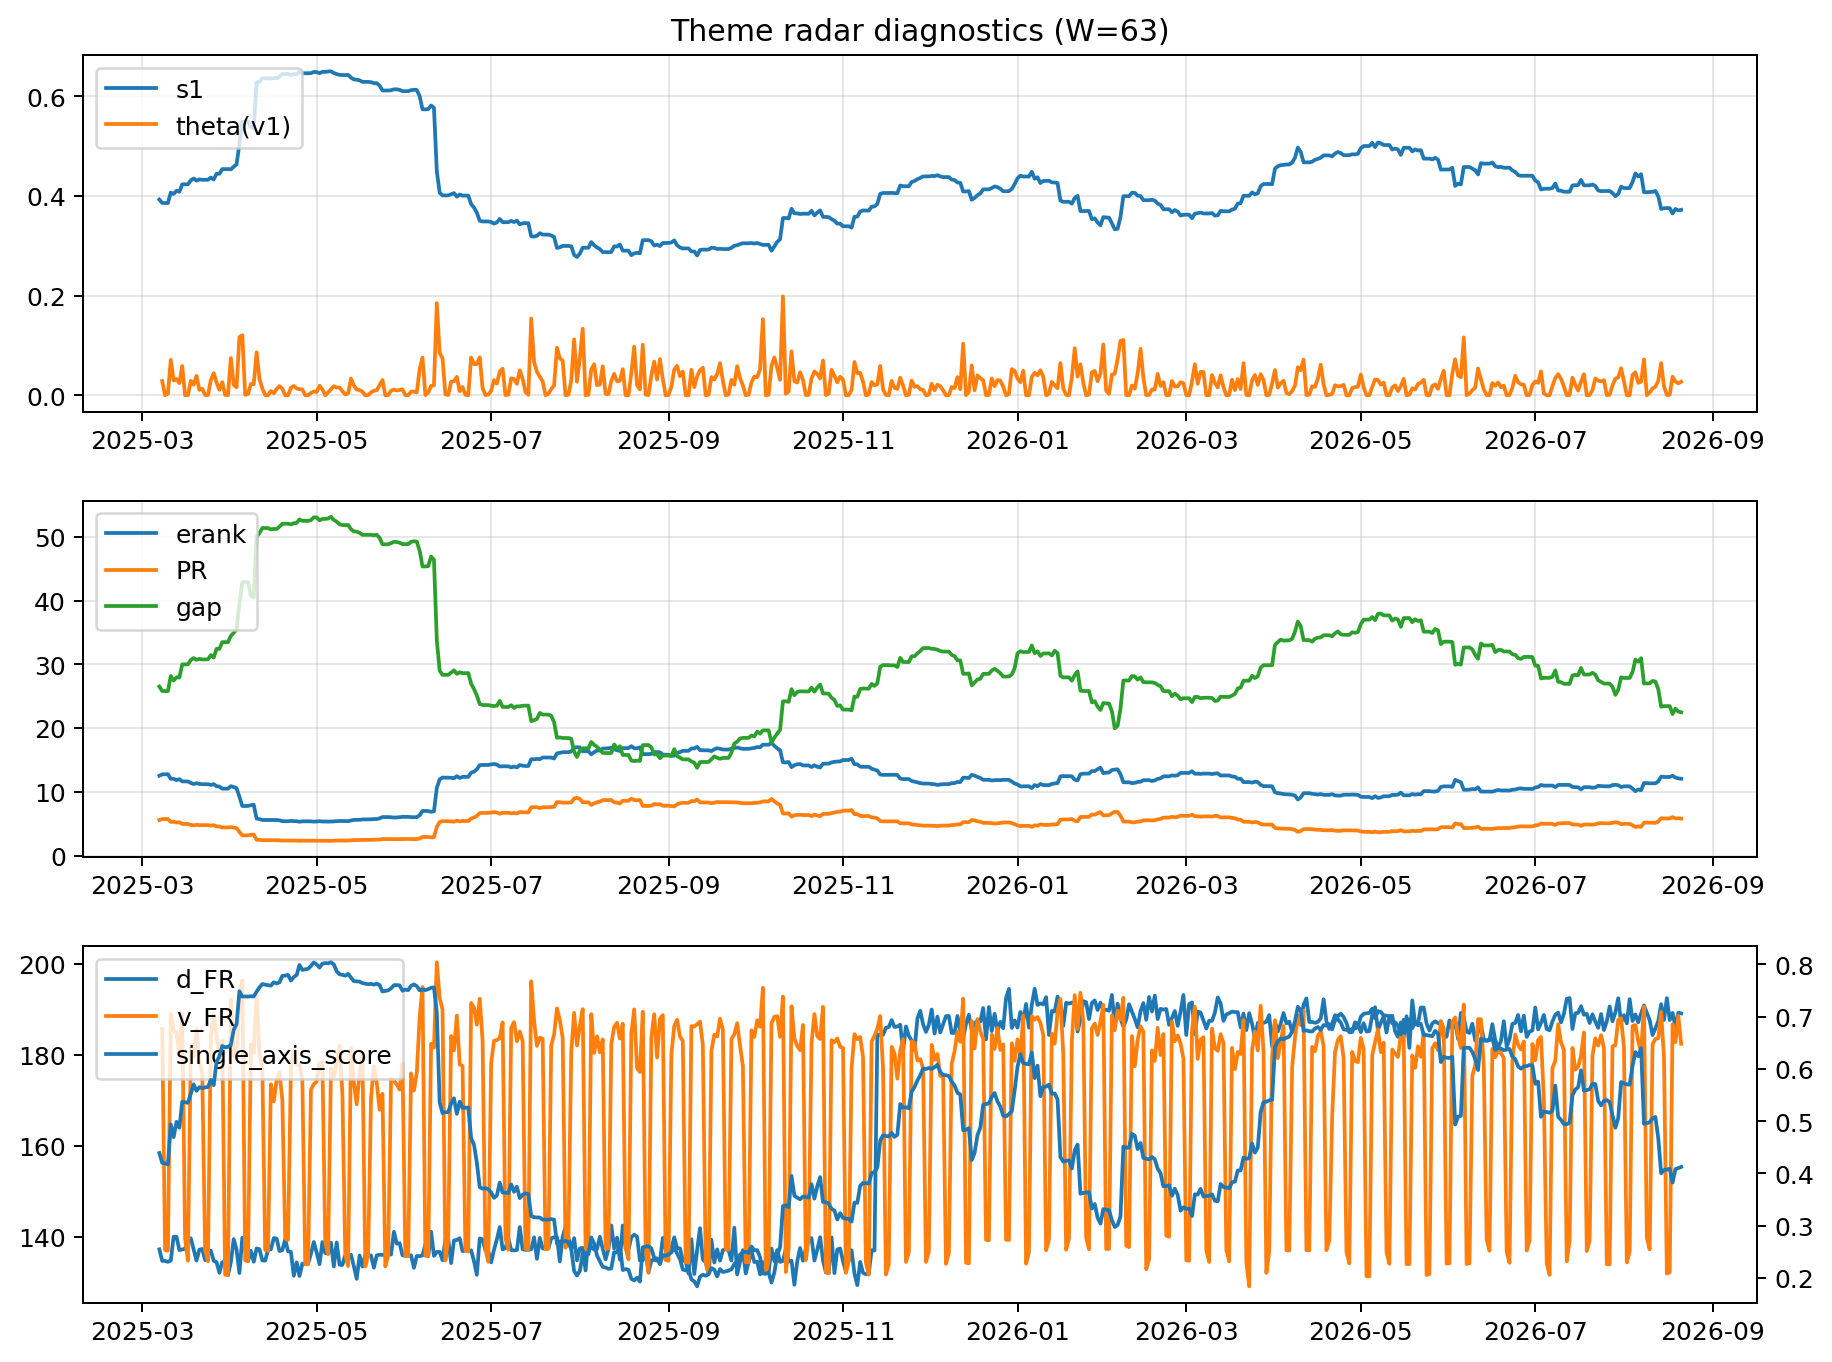
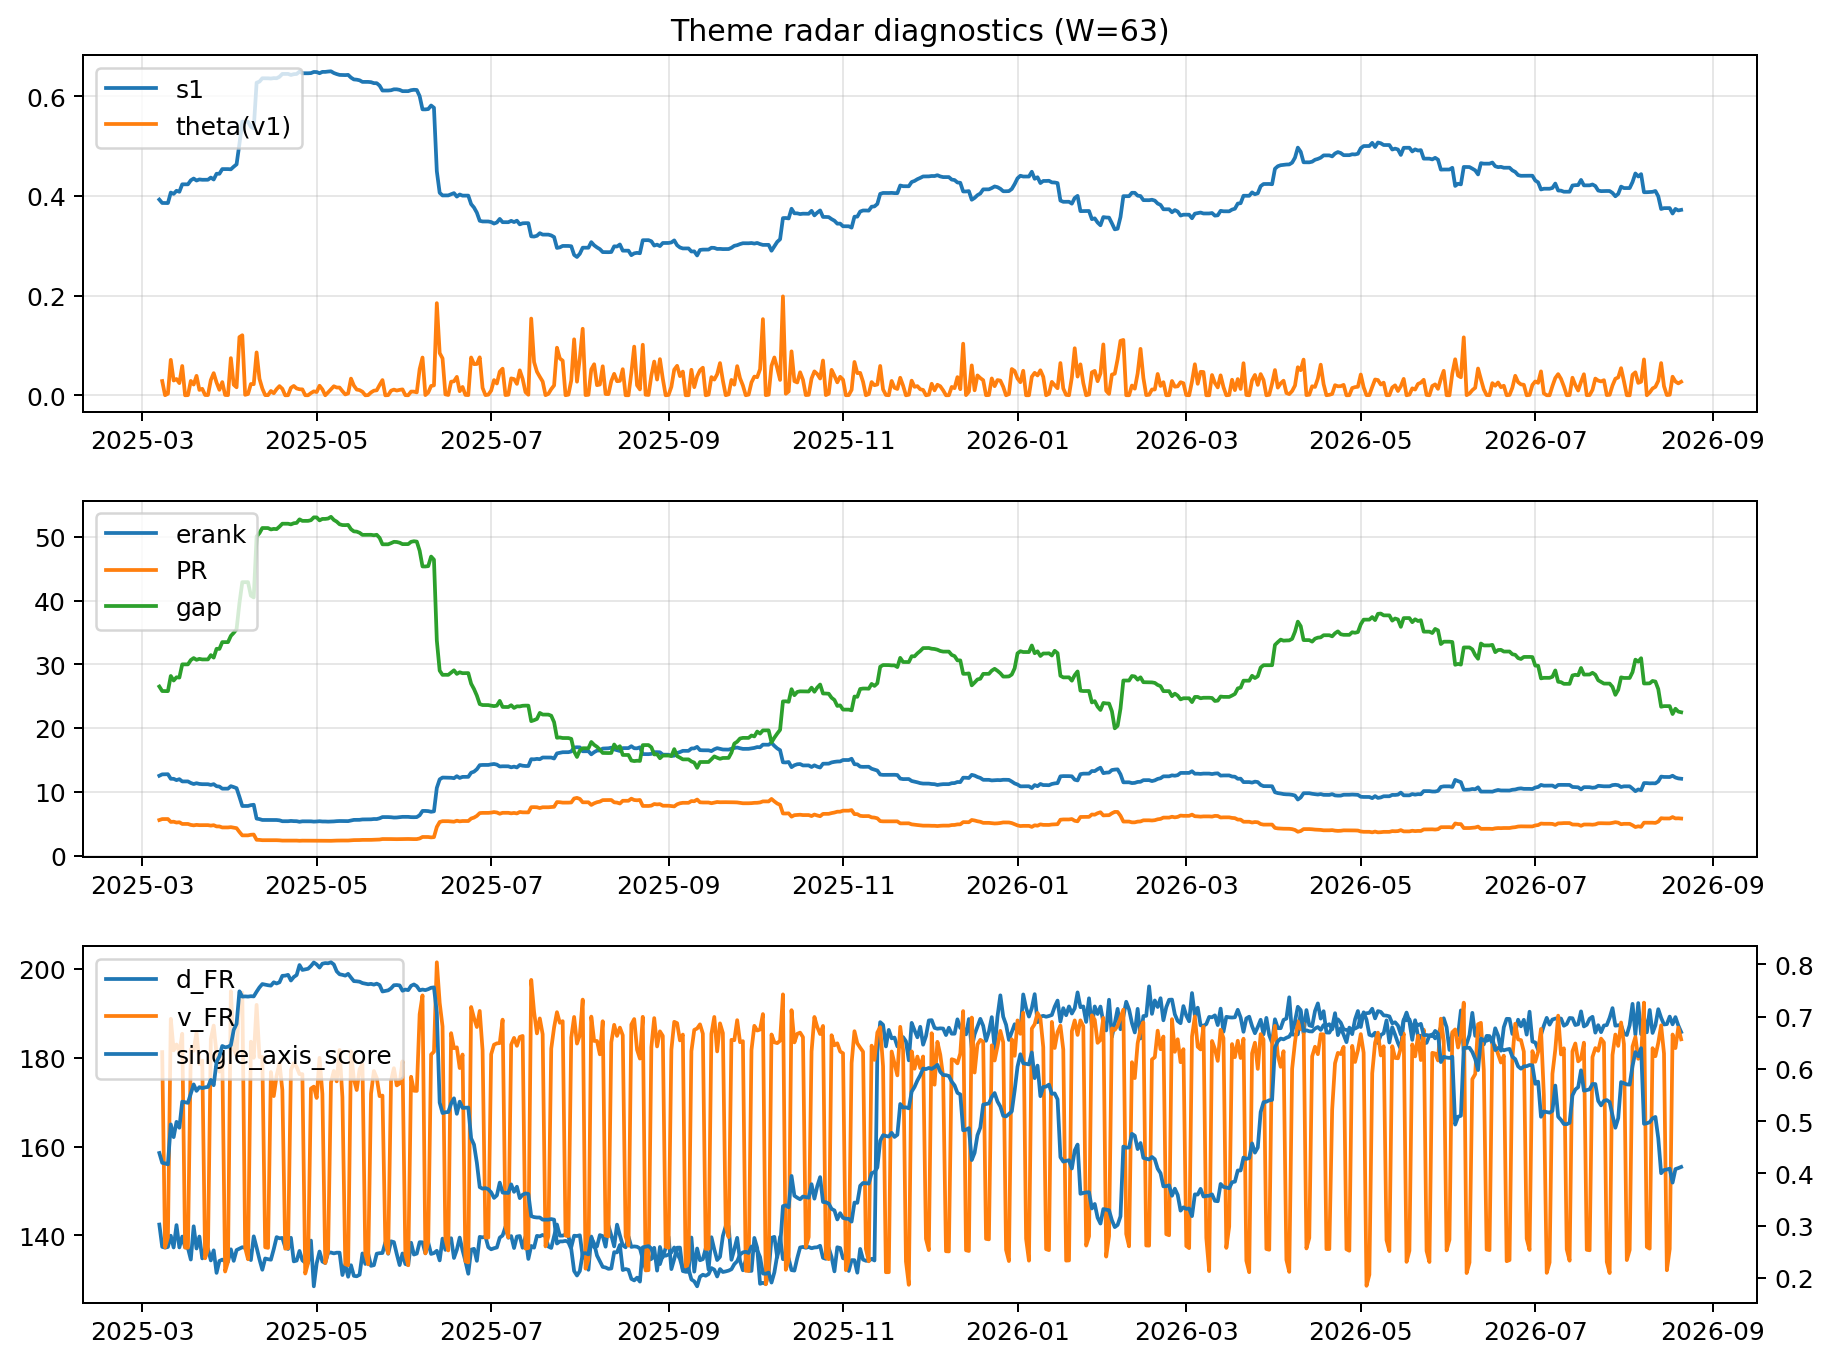
log: 2026-08-21 | sha256:c62c4ef79241d8d4f97c8d0d5e545c08bb0c07a88b5576b9dc3a8d981f9e5572

diff --git a/logs/2026-08-21.md b/logs/2026-08-21.md
@@ -3,43 +3,43 @@
 ![diagnostic W63](../assets/diagnostic/2026-08-21_W63.png)
 
 ## Leaders (v1) — W=63
-- **Nuclear_Uranium** (0.0930861978869653)
-- Semis (0.0753255045760785)
-- Quantum (0.064456945533827)
+- **Nuclear_Uranium** (0.093086199544563)
+- Semis (0.0753255058097301)
+- Quantum (0.0644569465615288)
 
 ## Challengers — W=63
-**v2:** Rates (0.0945177071130183), Software_Cloud (0.0722052533502548), Semis (0.0709718580406096)
-**v3:** Metals (0.1005732798947575), Crypto (0.0974315199823223), Genomics_Bio (0.0807409623501062)
+**v2:** Rates (0.0945177216861615), Software_Cloud (0.0722052542354535), Semis (0.0709718552698532)
+**v3:** Metals (0.1005732880444799), Crypto (0.0974315271443564), Genomics_Bio (0.0807409662787463)
 
 ## Migration (20D slope) — W=63
 **Top risers:**
-- axis_Quantum: 0.0005301351888467
-- axis_Semis: 0.0004948463339087
-- axis_Commodities: 0.0003182516077719
-- axis_Space: 0.0002966619010423
-- axis_Grid_Power: 0.0002933319351748
-- axis_Nuclear_Uranium: 0.0002847218278903
-- axis_Sector_Health: 0.0002127407972905
-- axis_Robotics: 0.0002046031848154
-- axis_Clean_Broad: 0.0001800884625849
-- axis_Sector_Energy: 0.0001523462509784
+- axis_Quantum: 0.0005301352056336
+- axis_Semis: 0.0004948464040697
+- axis_Commodities: 0.0003182515697427
+- axis_Space: 0.0002966619150143
+- axis_Grid_Power: 0.000293331963995
+- axis_Nuclear_Uranium: 0.0002847218064087
+- axis_Sector_Health: 0.0002127408106211
+- axis_Robotics: 0.0002046032163196
+- axis_Clean_Broad: 0.0001800884684212
+- axis_Sector_Energy: 0.0001523462443226
 
 **Top fallers:**
-- axis_Sector_Comm: -0.0001554983078037
-- axis_Credit: -0.0001702841742125
-- axis_Sector_Materials: -0.0001818757902142
-- axis_Miners: -0.0001889984855393
-- axis_Cyber: -0.0002286904526867
-- axis_Software_Cloud: -0.0002558575391077
-- axis_MegaCap_AI: -0.0002584754014799
-- axis_Crypto: -0.0004317697695309
-- axis_Rates: -0.0005767744760439
-- axis_Metals: -0.0005893641103882
+- axis_Sector_Comm: -0.0001554983077661
+- axis_Credit: -0.0001702841880369
+- axis_Sector_Materials: -0.000181875801496
+- axis_Miners: -0.0001889984868858
+- axis_Cyber: -0.0002286904147798
+- axis_Software_Cloud: -0.0002558574854551
+- axis_MegaCap_AI: -0.0002584753825831
+- axis_Crypto: -0.0004317697717987
+- axis_Rates: -0.0005767748570772
+- axis_Metals: -0.0005893640902718
 
 ## Risk line (W=63)
-- s1: 0.371948879307109
-- theta_v1: 0.0271962154953407
-- v_FR: 182.38863660648408
+- s1: 0.3719488755960292
+- theta_v1: 0.027196215232014
+- v_FR: 184.15295306921487
 - single_axis_score: 0.4123827392120075
 
 ## Interpretation
@@ -48,7 +48,7 @@
 - Action: Tomorrow watchlist: Quantum, Semis, Commodities, Space, Grid_Power + v2_top1=Rates
 - Action: Hedge note: normal correlation stability.
 
-- Percentiles (W=63 history): vfr_pct=0.61, theta_pct=0.61, s1_pct=0.33, score_pct=0.36.
+- Percentiles (W=63 history): vfr_pct=0.72, theta_pct=0.61, s1_pct=0.33, score_pct=0.36.
 
 ---
[2 lines of base64/hex data omitted]
